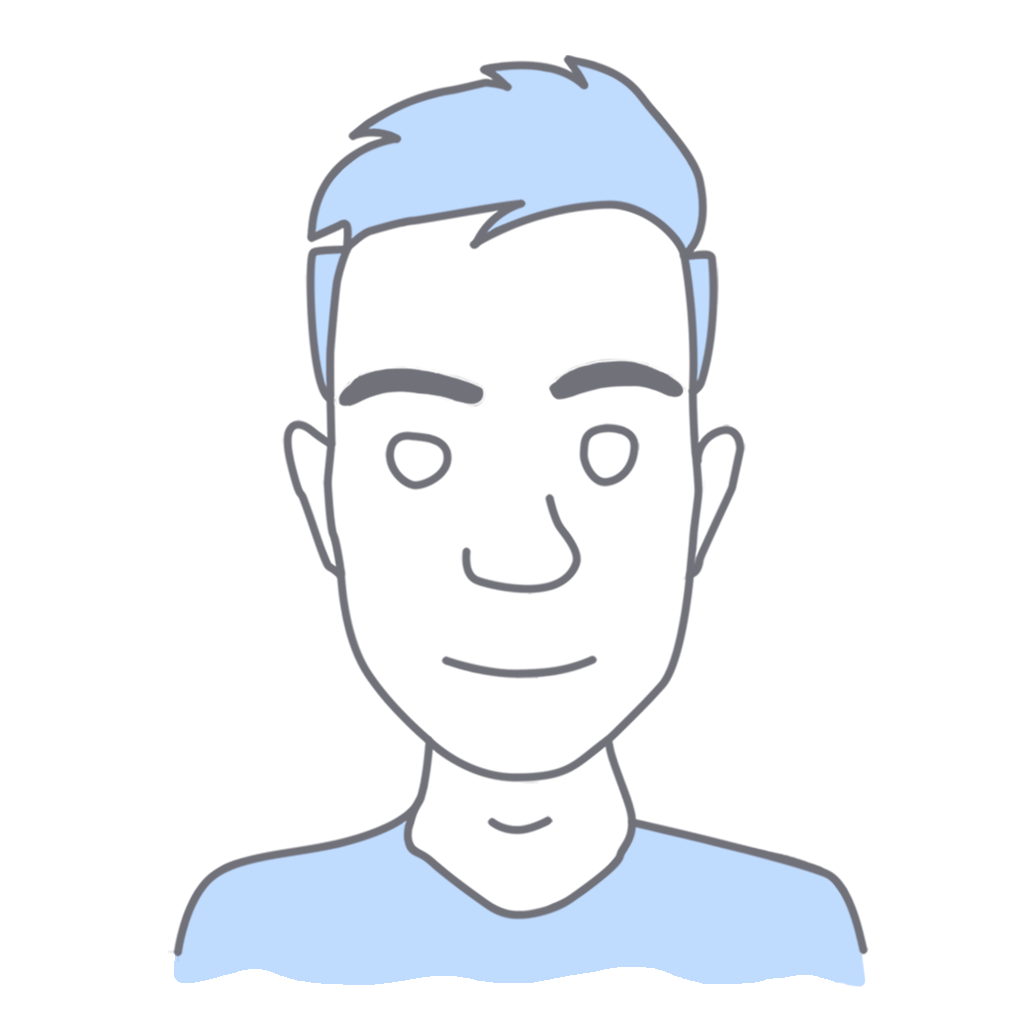
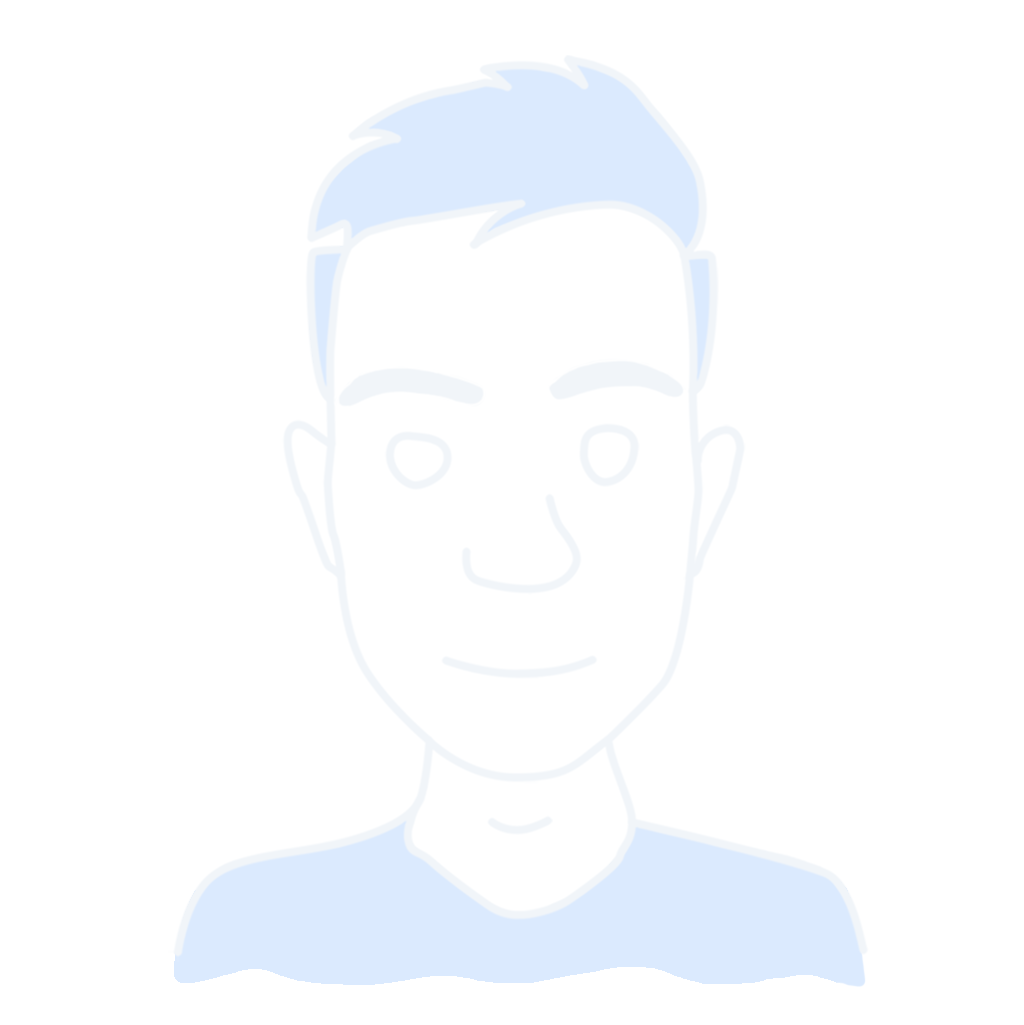
Add hero image for dark theme

diff --git a/components/UI/ToggleTheme.tsx b/components/UI/ToggleTheme.tsx
@@ -1,5 +1,3 @@
-"use client";
-
 import { useTheme } from "next-themes";
 
 export default function ToggleTheme(props: { style?: string }) {
@@ -8,7 +6,6 @@ export default function ToggleTheme(props: { style?: string }) {
   const handleTheme = () => {
     const checkbox = document.getElementById("toggle") as HTMLInputElement;
     setTheme(checkbox.checked ? "light" : "dark");
-    localStorage.theme = checkbox.checked ? "light" : "dark";
   };
 
   return (
@@ -23,12 +20,12 @@ export default function ToggleTheme(props: { style?: string }) {
           className="toggle-switch absolute top-0 left-0 w-0 h-0 opacity-0 z-20"
           type="checkbox"
         />
-        <div className="sun-moon absolute left-0 inline-block w-6 h-6 m-1 bg-zinc-300 rounded-full transtion-all duration-500 border-[0.125rem] bordre-[#dee2c6] z-20">
-          <div className="dots absolute top-[1px] left-3 w-0.5 h-0.5 bg-[#efeedb] border-[0.125rem] border-[#dee2c6] rounded-full transition-all duration-500 before:absolute before:top-[9px] before:-left-[5px] before:[content:''] before:block before:w-0.5 before:h-0.5 before:bg-[#efeedb] before:border-[0.125rem] before:border-[#dee2c6] before:rounded-full before:transition-all before:duration-500 after:absolute after:-top-0.5 after:-left-[13px] after:[content:''] after:block after:w-0.5 after:h-0.5 after:bg-[#efeedb] after:border-[0.125rem] after:border-[#dee2c6] after:rounded-full after:transition-all after:duration-500"></div>
+        <div className="sun-moon absolute left-0 inline-block w-6 h-6 m-1 bg-zinc-300 rounded-full border-[0.125rem] bordre-[#dee2c6] z-20">
+          <div className="dots absolute top-[1px] left-3 w-0.5 h-0.5 bg-[#efeedb] border-[0.125rem] border-[#dee2c6] rounded-full duration-500 before:absolute before:top-[9px] before:-left-[5px] before:[content:''] before:block before:w-0.5 before:h-0.5 before:bg-[#efeedb] before:border-[0.125rem] before:border-[#dee2c6] before:rounded-full after:absolute after:-top-0.5 after:-left-[13px] after:[content:''] after:block after:w-0.5 after:h-0.5 after:bg-[#efeedb] after:border-[0.125rem] after:border-[#dee2c6] after:rounded-full"></div>
         </div>
-        <div className="background absolute w-switch h-switch rounded-2xl border-[0.125rem] border-[#202020] bg-gradient-to-r from-[#484848] to-[#202020] transition-all duration-300 z-10">
-          <div className="stars1 absolute top-[3px] right-3 w-[0.2rem] h-[0.2rem] bg-zinc-200 rounded-full transition-all duration-300 before:absolute before:top-[9px] before:-right-[6px] before:[content:''] before:w-0.5 before:h-0.5 before:bg-zinc-200 before:rounded-full before:transition-all before:duration-200 after:absolute after:top-1 after:right-2.5 after:[content:''] after:w-0.5 after:h-0.5 after:bg-zinc-200 after:rounded-full after:transition-all after:duration-200"></div>
-          <div className="stars2 absolute top-5 right-6 w-[0.2rem] h-[0.2rem] bg-zinc-200 rounded-full transition-all duration-300 before:absolute before:top-[3px] before:-right-[13px] before:[content:''] before:w-0.5 before:h-0.5 before:bg-zinc-200 before:rounded-full before:transition-all before:duration-200 after:absolute after:-top-1 after:-right-2 after:[content:''] after:w-0.5 after:h-0.5 after:bg-zinc-200 after:rounded-full after:transition-all after:duration-200"></div>
+        <div className="background absolute w-switch h-switch rounded-2xl border-[0.125rem] border-[#202020] bg-gradient-to-r from-[#484848] to-[#202020] z-10">
+          <div className="stars1 absolute top-[3px] right-3 w-[0.2rem] h-[0.2rem] bg-zinc-200 rounded-full before:absolute before:top-[9px] before:-right-[6px] before:[content:''] before:w-0.5 before:h-0.5 before:bg-zinc-200 before:rounded-full after:absolute after:top-1 after:right-2.5 after:[content:''] after:w-0.5 after:h-0.5 after:bg-zinc-200 after:rounded-full"></div>
+          <div className="stars2 absolute top-5 right-6 w-[0.2rem] h-[0.2rem] bg-zinc-200 rounded-full before:absolute before:top-[3px] before:-right-[13px] before:[content:''] before:w-0.5 before:h-0.5 before:bg-zinc-200 before:rounded-full after:absolute after:-top-1 after:-right-2 after:[content:''] after:w-0.5 after:h-0.5 after:bg-zinc-200 after:rounded-full"></div>
         </div>
       </label>
     </div>

diff --git a/components/Landing/TextAndImage.tsx b/components/Landing/TextAndImage.tsx
@@ -4,17 +4,30 @@ import { headlineFont } from "@/public/fonts";
 import Image from "next/image";
 import useElementOnScreen from "@/hooks/useElementOnScreen";
 import { TextAndImageProps } from "@/public/types";
+import { useTheme } from "next-themes";
+import { useEffect, useState } from "react";
 
 export default function TextAndImage({
   h1,
   paragraph,
   image,
+  imageDark,
 }: TextAndImageProps) {
+  const [mounted, setMounted] = useState(false);
+  const { theme } = useTheme();
   const [containerRef, isVisible] = useElementOnScreen({
     root: null,
     rootMargin: "0px",
     threshold: 0.85,
   });
+
+  useEffect(() => {
+    setMounted(true);
+  }, []);
+
+  if (!mounted) {
+    return null;
+  }
 
   return (
     <div
@@ -39,7 +52,7 @@ export default function TextAndImage({
       </div>
       <div className="basis-3/5 lg:basis-1/2 flex items-end max-w-md lg:max-w-xl lg:mx-auto">
         <Image
-          src={image}
+          src={theme === "light" ? image : imageDark}
           alt="Hero image"
           className={`opacity-0 [animation-delay:0.5s] motion-reduce:animate-none motion-reduce:opacity-100 ${
             isVisible && "animate-photo"

diff --git a/public/content.ts b/public/content.ts
@@ -3,6 +3,7 @@ import { MdArrowUpward, MdPerson, MdPhoneEnabled } from "react-icons/md";
 import { BiCodeAlt } from "react-icons/bi";
 
 import Hero from "@/public/images/compressed/hero.webp";
+import HeroDark from "@/public/images/compressed/heroDark.webp";
 import Pizza from "@/public/images/compressed/pizza.webp";
 import Creme from "@/public/images/compressed/creme.webp";
 import Beef from "@/public/images/compressed/beef.webp";
@@ -76,6 +77,7 @@ export const landing = {
   h1: "Hi, my name is Franciszek",
   paragraph: "I am creative web developer from Poznań, Poland.",
   image: Hero,
+  imageDark: HeroDark,
   letters: ["S", "C", "R", "O", "L", "L"],
 };
 

diff --git a/components/Landing/Landing.tsx b/components/Landing/Landing.tsx
@@ -3,11 +3,16 @@ import Scroll from "./Scroll";
 import TextAndImage from "./TextAndImage";
 
 export default function Landing() {
-  const { h1, paragraph, image, letters } = landing;
+  const { h1, paragraph, image, imageDark, letters } = landing;
 
   return (
     <section id="landing" className="h-screen relative pt-0">
-      <TextAndImage h1={h1} paragraph={paragraph} image={image} />
+      <TextAndImage
+        h1={h1}
+        paragraph={paragraph}
+        image={image}
+        imageDark={imageDark}
+      />
       <Scroll letters={letters} />
     </section>
   );

diff --git a/app/layout.tsx b/app/layout.tsx
@@ -14,7 +14,11 @@ export default function RootLayout({
     <html lang="en" className="scroll-smooth motion-reduce:scroll-auto">
       <head />
       <body>
-        <ThemeProvider attribute="class" disableTransitionOnChange>
+        <ThemeProvider
+          attribute="class"
+          enableSystem={false}
+          disableTransitionOnChange
+        >
           <Header />
           {children}
           <MobileNavbar />

diff --git a/public/types.ts b/public/types.ts
@@ -57,6 +57,7 @@ export type TextAndImageProps = {
   h1: string;
   paragraph: string;
   image: StaticImageData;
+  imageDark: StaticImageData;
 };
 
 export type ScrollProps = {
